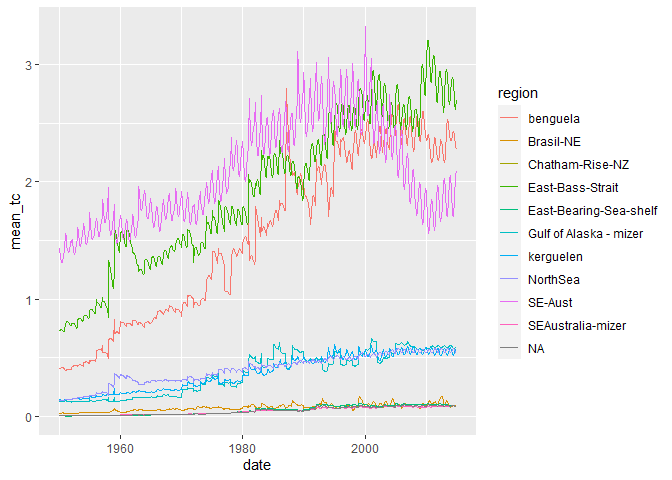
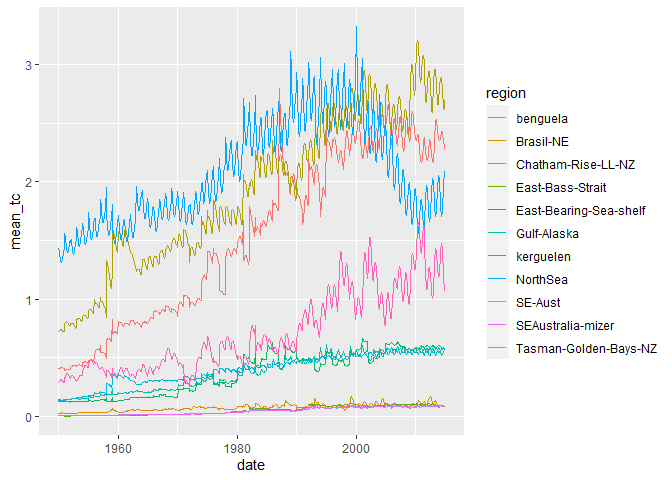
Updating all shapefiles from Google Drive

diff --git a/Scripts/Creating_Your_Own_Mask_From_Shapefiles.md b/Scripts/Creating_Your_Own_Mask_From_Shapefiles.md
@@ -66,10 +66,10 @@ names_regions <- str_split_fixed(names_regions, "_", n = 2)[,1]
 names_regions
 ```
 
-    ##  [1] "benguela"               "Brasil-NE"              "Chatham-Rise-NZ"       
-    ##  [4] "East-Bass-Strait"       "East-Bearing-Sea-shelf" "Gulf of Alaska - mizer"
+    ##  [1] "benguela"               "Brasil-NE"              "Chatham-Rise-LL-NZ"    
+    ##  [4] "East-Bass-Strait"       "East-Bearing-Sea-shelf" "Gulf-Alaska"           
     ##  [7] "kerguelen"              "NorthSea"               "SE-Aust"               
-    ## [10] "SEAustralia-mizer"
+    ## [10] "SEAustralia-mizer"      "Tasman-Golden-Bays-NZ"
 
 ### Getting file paths for shapefiles
 
@@ -82,15 +82,15 @@ regions_paths
 
     ##  [1] "../Data/Shapefiles_Regions//benguela_shapefiles/model_regions_v3_geo.shp"                  
     ##  [2] "../Data/Shapefiles_Regions//Brasil-NE_regional_Model/BRA_NE_Model.shp"                     
-    ##  [3] "../Data/Shapefiles_Regions//Chatham-Rise-NZ_Mizer/CHAT30_aea.shp"                          
-    ##  [4] "../Data/Shapefiles_Regions//Chatham-Rise-NZ_Mizer/CHAT30_LL.shp"                           
-    ##  [5] "../Data/Shapefiles_Regions//East-Bass-Strait_EwE/bulman_region.shp"                        
-    ##  [6] "../Data/Shapefiles_Regions//East-Bearing-Sea-shelf_subregions10_60/EBS_subregions10_60.shp"
-    ##  [7] "../Data/Shapefiles_Regions//Gulf of Alaska - mizer/GOA.shp"                                
-    ##  [8] "../Data/Shapefiles_Regions//kerguelen_shapefiles/Ecopath_model_domain_curved.shp"          
-    ##  [9] "../Data/Shapefiles_Regions//NorthSea_IBTS_mizer/Shapefile.shp"                             
-    ## [10] "../Data/Shapefiles_Regions//SE-Aust_shapefiles/Atlantis_SE_boundary_box.shp"               
-    ## [11] "../Data/Shapefiles_Regions//SEAustralia-mizer_shapefiles/sess_cts.shp"
+    ##  [3] "../Data/Shapefiles_Regions//Chatham-Rise-LL-NZ_Mizer/CHAT30_LL.shp"                        
+    ##  [4] "../Data/Shapefiles_Regions//East-Bass-Strait_EwE/bulman_region.shp"                        
+    ##  [5] "../Data/Shapefiles_Regions//East-Bearing-Sea-shelf_subregions10_60/EBS_subregions10_60.shp"
+    ##  [6] "../Data/Shapefiles_Regions//Gulf-Alaska_mizer/GOA.shp"                                     
+    ##  [7] "../Data/Shapefiles_Regions//kerguelen_shapefiles/Ecopath_model_domain_curved.shp"          
+    ##  [8] "../Data/Shapefiles_Regions//NorthSea_IBTS_mizer/Shapefile.shp"                             
+    ##  [9] "../Data/Shapefiles_Regions//SE-Aust_Atlantis_shapefiles/Atlantis_SE_boundary_box.shp"      
+    ## [10] "../Data/Shapefiles_Regions//SEAustralia-mizer_shapefiles/sess_cts.shp"                     
+    ## [11] "../Data/Shapefiles_Regions//Tasman-Golden-Bays-NZ_Mizer/P0to26_depth.shp"
 
 ### Loading regions
 
@@ -121,13 +121,13 @@ for(i in seq_along(regions_paths)){
       st_crs(reg_raw) <- 4326}
     #If the shapefile has a CRS different to 4326, then transform it to WGS84
     }else if(st_crs(reg_raw) != st_crs(4326)){
-      reg_raw <- st_transform(reg_raw, 4326) %>% 
-        #Make sure it wraps around the international dateline
-        st_wrap_dateline(options = c("WRAPDATELINE=YES", "DATELINEOFFSET=180"))
+      reg_raw <- st_transform(reg_raw, 4326)
     }
   
   #Remove internal region boundaries
   reg_raw <- reg_raw %>% 
+    #Make sure it wraps around the international dateline
+    st_wrap_dateline(options = c("WRAPDATELINE=YES", "DATELINEOFFSET=180")) %>% 
     group_by(region) %>% 
     summarise() %>% 
     #Ensure there are only two dimensions
@@ -147,6 +147,9 @@ for(i in seq_along(regions_paths)){
 
     ## although coordinates are longitude/latitude, st_union assumes that they are planar
     ## although coordinates are longitude/latitude, st_union assumes that they are planar
+
+    ## Warning in st_cast.MULTIPOLYGON(X[[i]], ...): polygon from first part only
+
     ## although coordinates are longitude/latitude, st_union assumes that they are planar
     ## although coordinates are longitude/latitude, st_union assumes that they are planar
     ## although coordinates are longitude/latitude, st_union assumes that they are planar
@@ -158,6 +161,7 @@ for(i in seq_along(regions_paths)){
 
     ## Warning in st_cast.MULTIPOLYGON(X[[i]], ...): polygon from first part only
 
+    ## although coordinates are longitude/latitude, st_union assumes that they are planar
     ## although coordinates are longitude/latitude, st_union assumes that they are planar
     ## although coordinates are longitude/latitude, st_union assumes that they are planar
 
@@ -236,13 +240,7 @@ plot(tc1)
 tc1_crop <- st_crop(tc1, LMEs)
 ```
 
-    ## Warning in st_is_longlat(x): bounding box has potentially an invalid value range
-    ## for longlat data
-
     ## although coordinates are longitude/latitude, st_union assumes that they are planar
-
-    ## Warning in st_is_longlat(x): bounding box has potentially an invalid value range
-    ## for longlat data
 
     ## although coordinates are longitude/latitude, st_intersects assumes that they are planar
 
@@ -258,13 +256,7 @@ plot(tc1_crop)
 tc1_crop2 <- tc1[LMEs]
 ```
 
-    ## Warning in st_is_longlat(x): bounding box has potentially an invalid value range
-    ## for longlat data
-
     ## although coordinates are longitude/latitude, st_union assumes that they are planar
-
-    ## Warning in st_is_longlat(x): bounding box has potentially an invalid value range
-    ## for longlat data
 
     ## although coordinates are longitude/latitude, st_intersects assumes that they are planar
 
@@ -313,7 +305,5 @@ ts_lme %>%
   ggplot(aes(date, mean_tc))+
   geom_line(aes(colour = region))
 ```
-
-    ## Warning: Removed 780 row(s) containing missing values (geom_path).
 
 ![](Creating_Your_Own_Mask_From_Shapefiles_files/figure-gfm/ts_plot-1.png)<!-- -->
